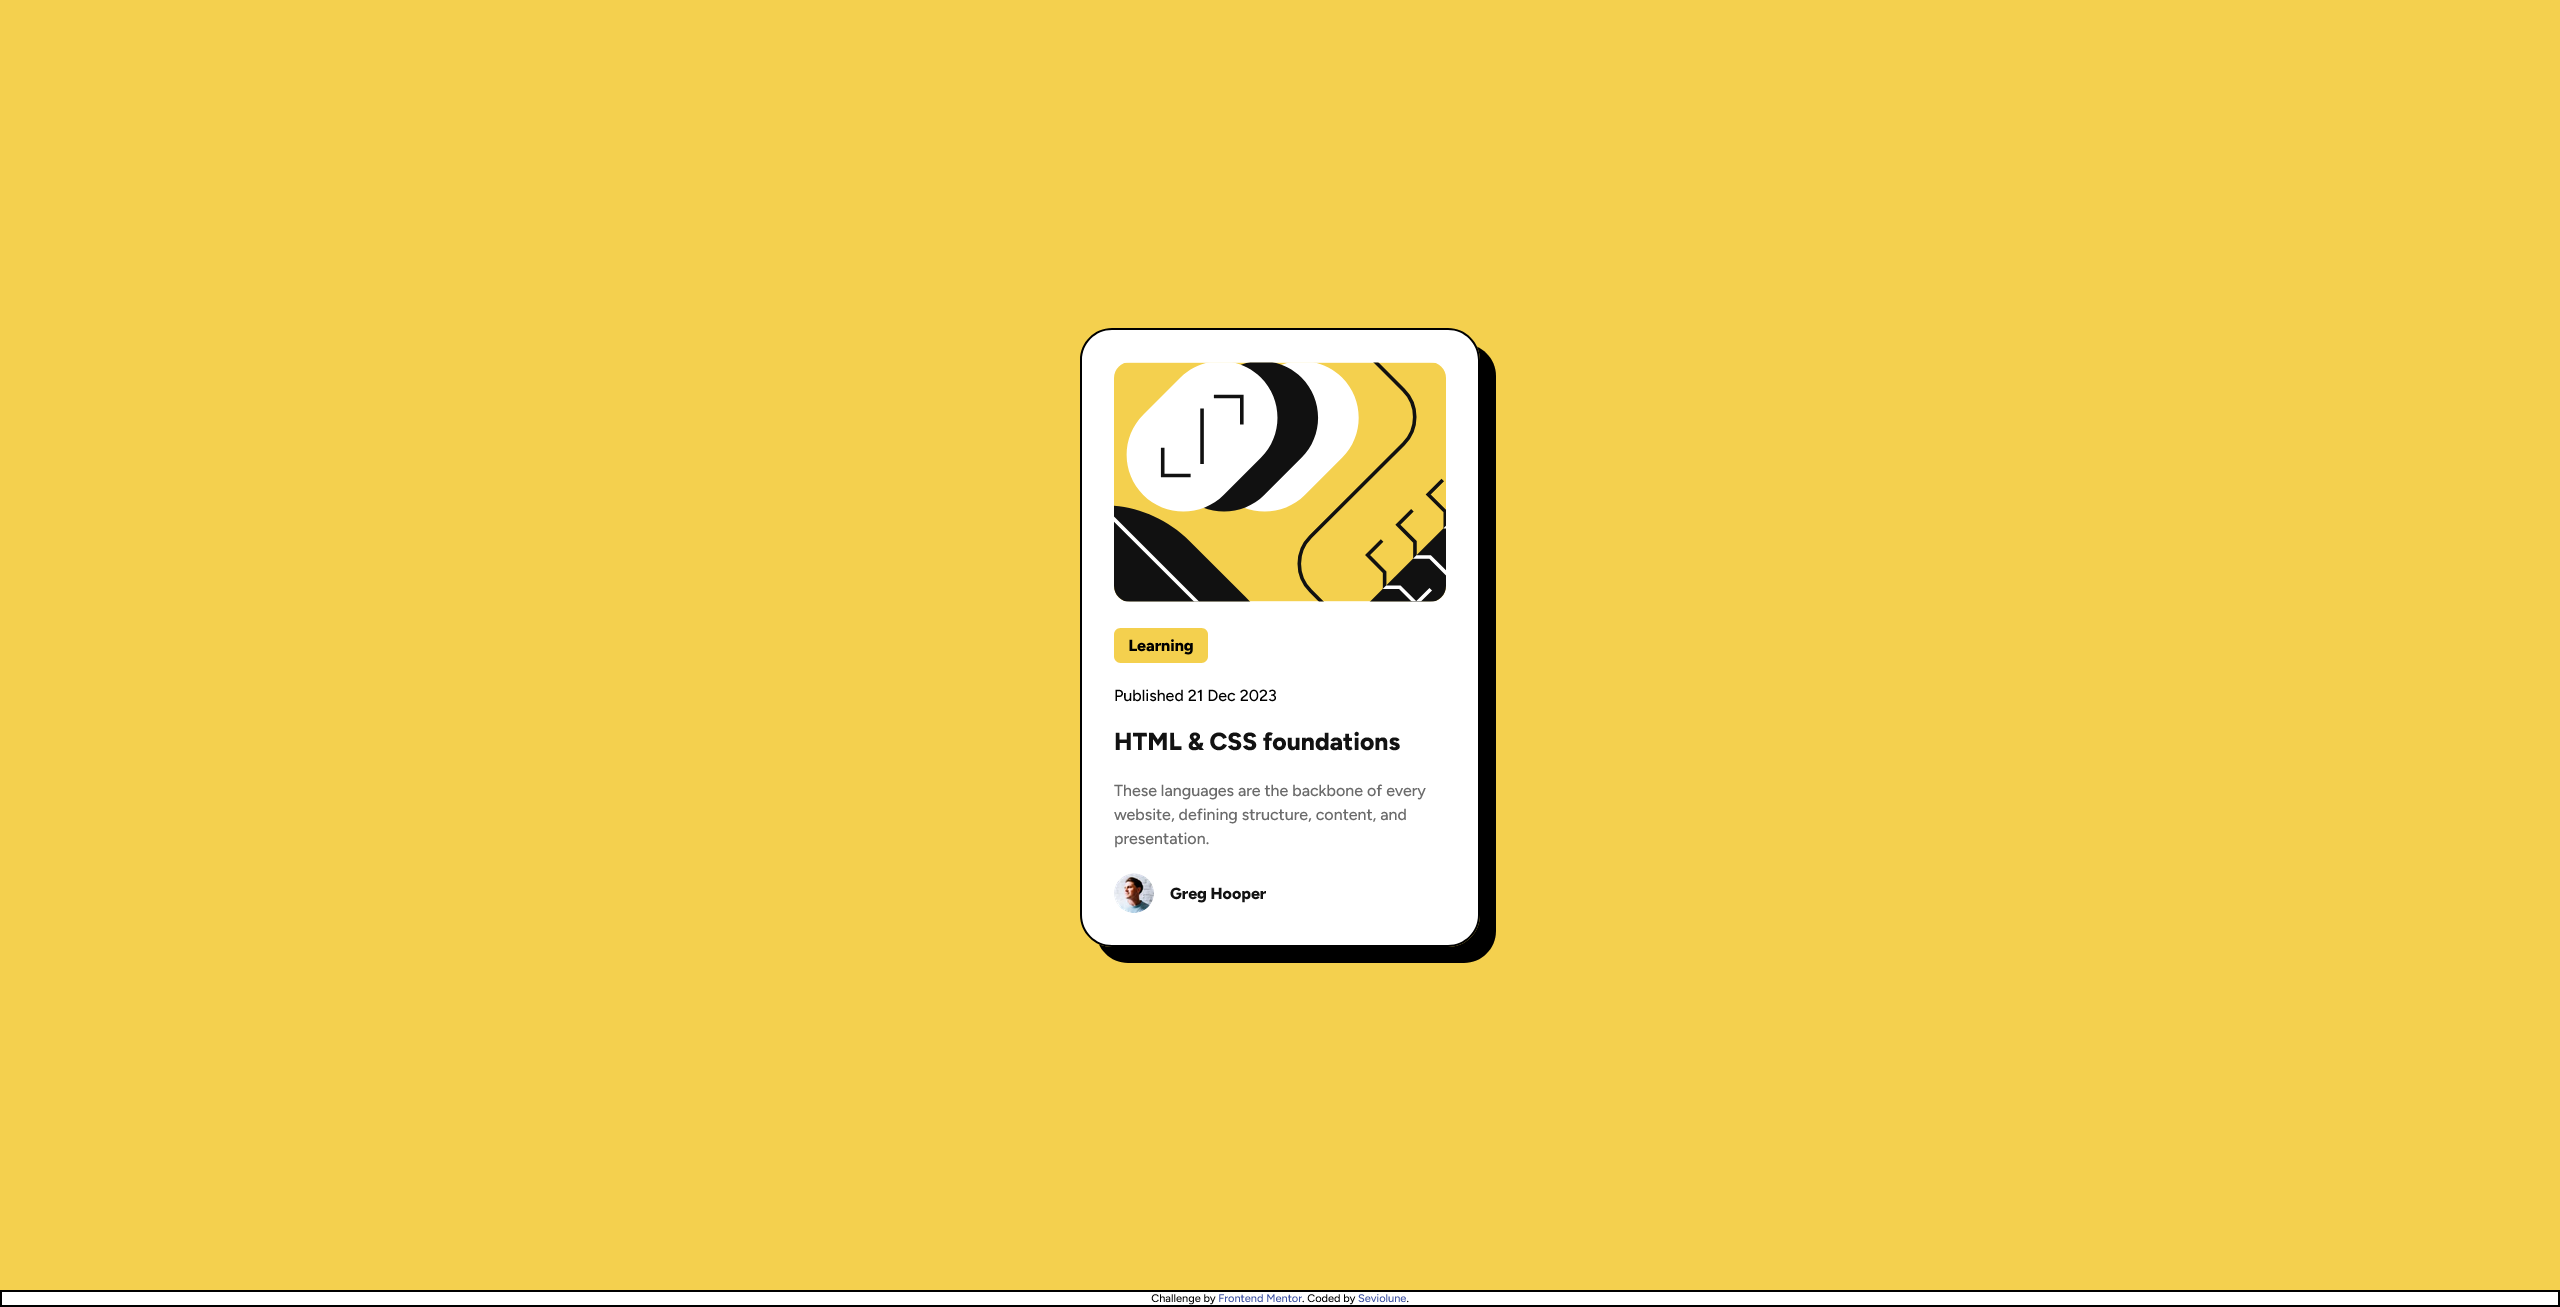
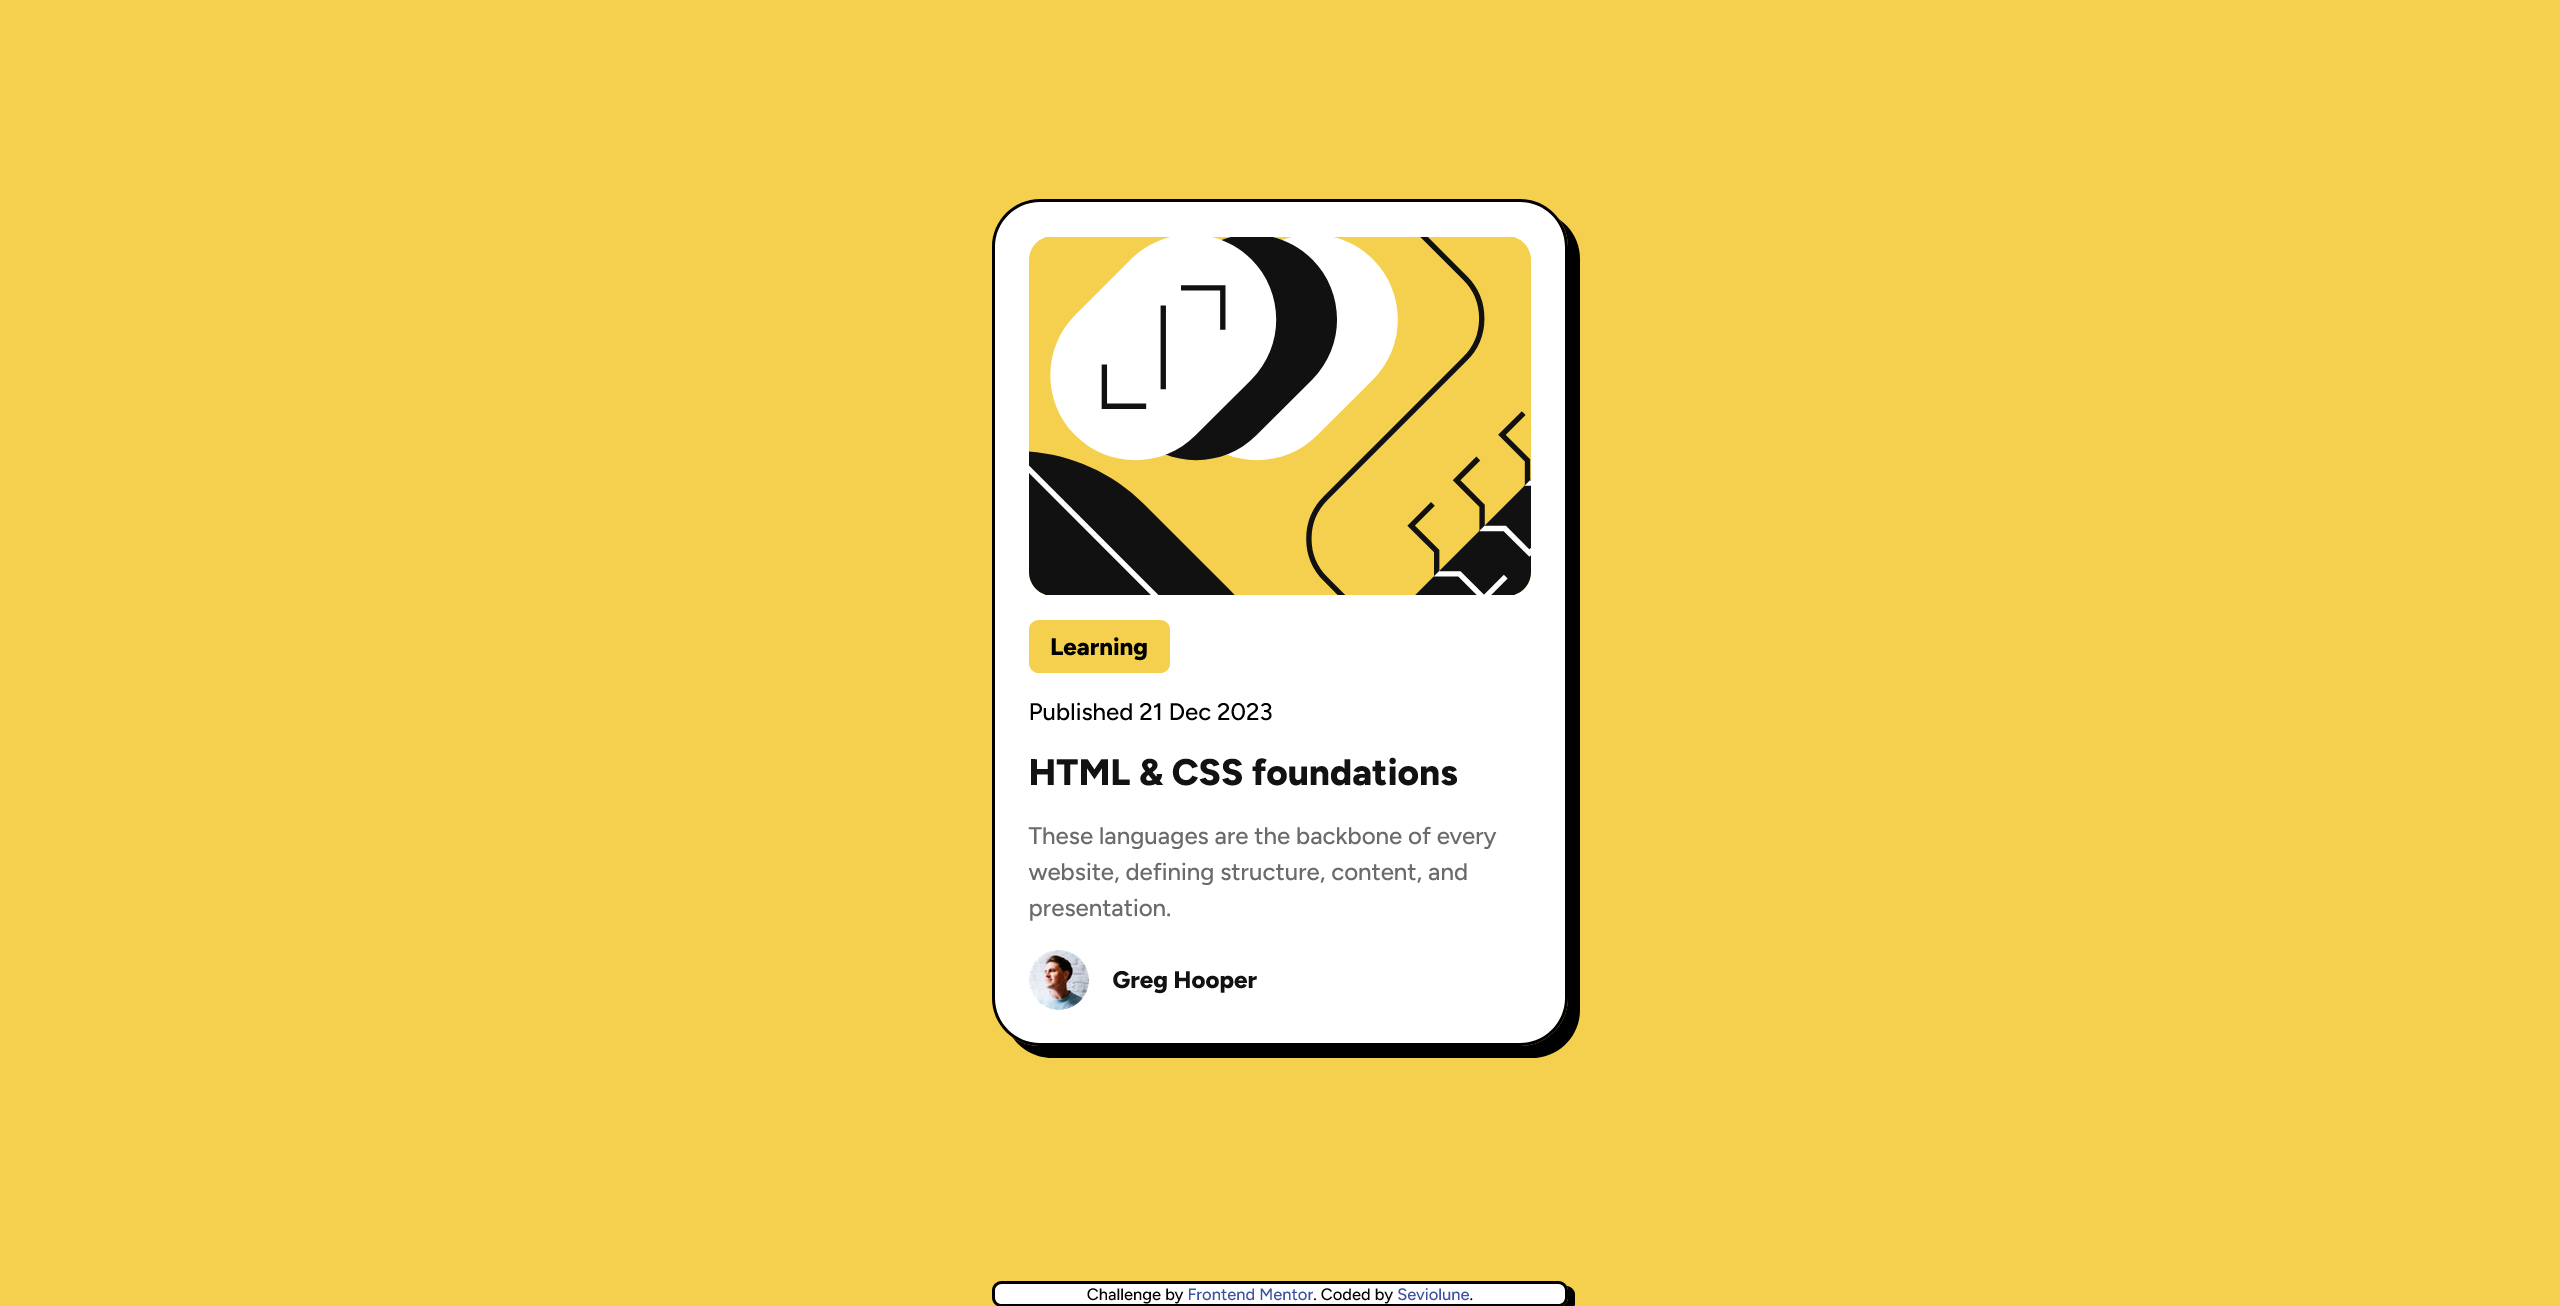
Update README and screenshot to match updated site

Changed region(s): [[0.375, 0.1531, 0.625, 0.827], [0.0, 0.9801, 1.0, 1.0]]

diff --git a/README.md b/README.md
@@ -17,7 +17,7 @@ Users should be able to:
 ### Links
 
 - Github repository URL: [https://github.com/Seviolune/blog-preview-card-main](https://github.com/Seviolune/blog-preview-card-main)
-- Solution URL: [not yet](https://www.frontendmentor.io/solutions/interactive-faq-accordion-with-no-javascript-because-its-possible-fqx4f3R14X)
+- Solution URL: [https://www.frontendmentor.io/challenges/blog-preview-card-ckPaj01IcS](https://www.frontendmentor.io/challenges/blog-preview-card-ckPaj01IcS)
 - Live Site URL: [https://seviolune.github.io/blog-preview-card-main](https://seviolune.github.io/blog-preview-card-main)
 
 ## Author
